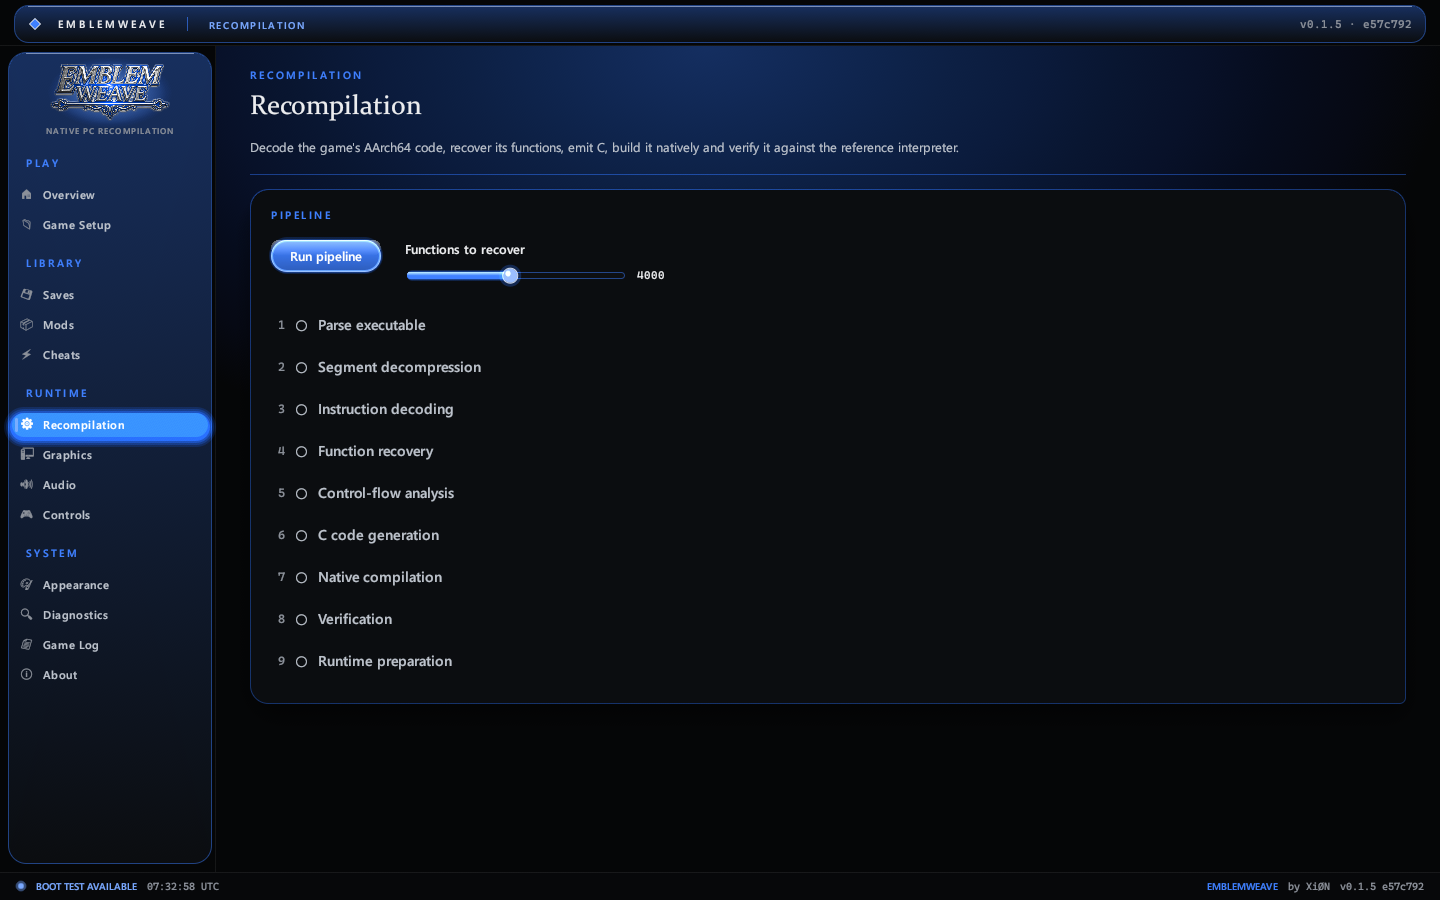
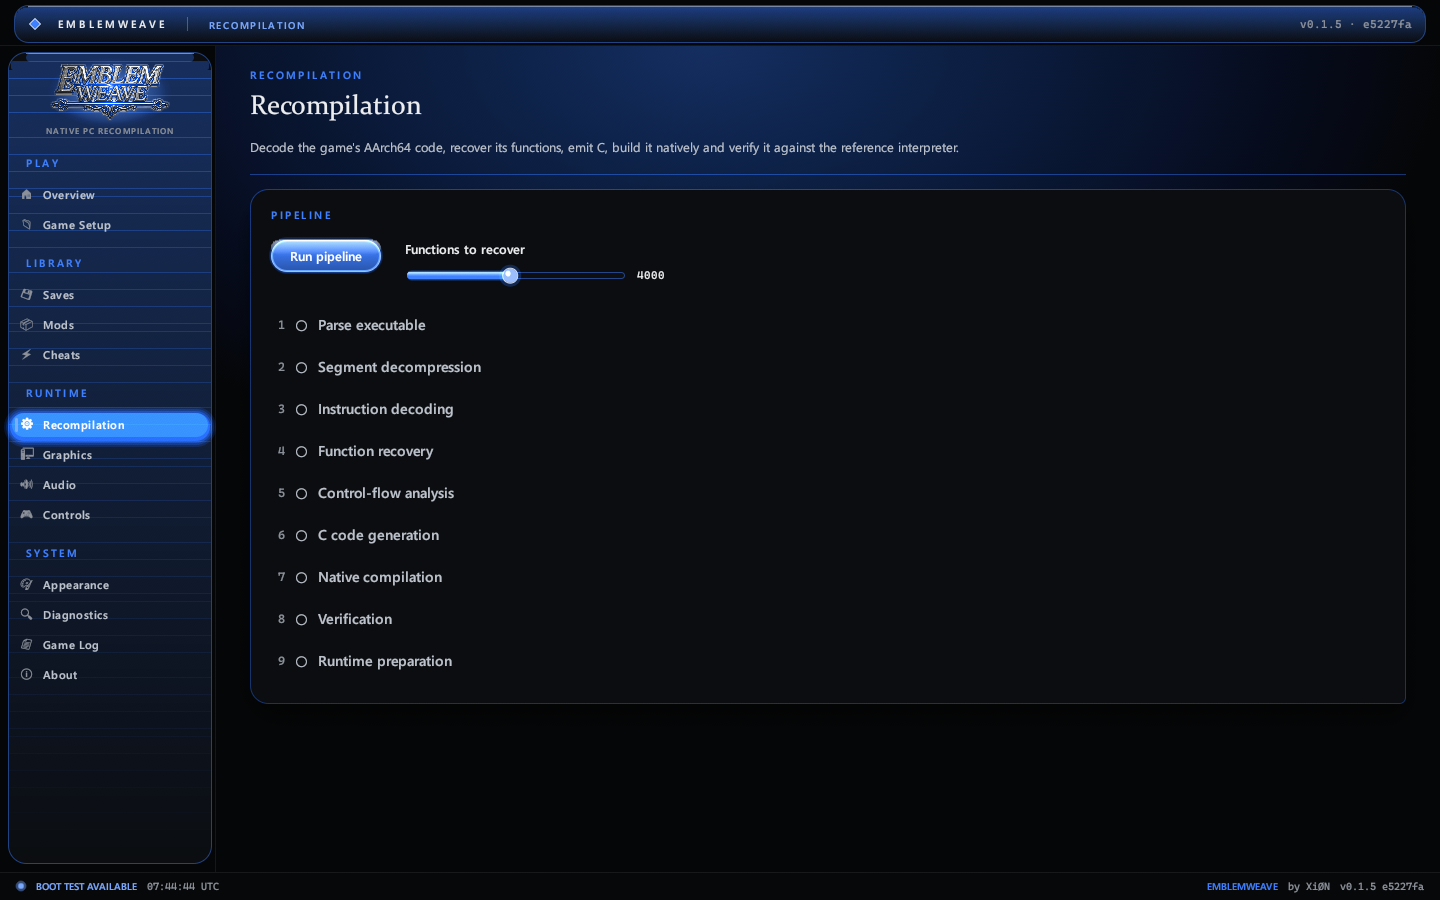
Paint gradients in rows so nothing can spill over the page
A gradient was built as a triangle fan around the rounded outline, and when a
corner radius came close to half a short side the fan threw pale wedges far
outside the control, over the hero, the cards and the text. Gradients are now
painted as one rounded row per line, each inset by the corner's cut at that
height, so they cannot leave their rectangle at any size, radius or pixel
density. The hero's quick actions also fit on one row again at the default
width.

Changed region(s): [[0.0, 0.0, 1.0, 0.0311], [0.1875, 0.2489, 0.25, 0.28], [0.0, 0.0622, 0.0312, 0.0933]]

diff --git a/apps/emblemweave/src/widgets.rs b/apps/emblemweave/src/widgets.rs
@@ -158,43 +158,44 @@ pub fn status_line(ui: &mut egui::Ui, p: &Palette, tone: Tone, label: &str, deta
 }
 
 /// The outline of a rounded rectangle, clockwise from the top left.
-fn rounded_outline(rect: Rect, radius: f32) -> Vec<Pos2> {
-    let r = radius.min(rect.width() / 2.0).min(rect.height() / 2.0);
-    let corners = [
-        (Pos2::new(rect.left() + r, rect.top() + r), std::f32::consts::PI),
-        (Pos2::new(rect.right() - r, rect.top() + r), 1.5 * std::f32::consts::PI),
-        (Pos2::new(rect.right() - r, rect.bottom() - r), 0.0),
-        (Pos2::new(rect.left() + r, rect.bottom() - r), 0.5 * std::f32::consts::PI),
-    ];
-    let mut pts = Vec::with_capacity(4 * 9);
-    for (c, start) in corners {
-        for k in 0..=8 {
-            let a = start + k as f32 / 8.0 * std::f32::consts::FRAC_PI_2;
-            pts.push(c + Vec2::new(a.cos(), a.sin()) * r);
-        }
-    }
-    pts
-}
 
 /// Fill a rounded rectangle with a vertical gradient, as one mesh.
 pub fn gradient_fill(painter: &egui::Painter, rect: Rect, radius: f32, top: Color32, bottom: Color32) {
-    painter.add(gradient_shape(rect, radius, top, bottom));
+    painter.extend(gradient_rows(rect, radius, top, bottom));
 }
 
 /// [`gradient_fill`] as a shape, for painting behind content laid out later.
 pub fn gradient_shape(rect: Rect, radius: f32, top: Color32, bottom: Color32) -> egui::Shape {
-    let outline = rounded_outline(rect, radius);
-    let shade = |y: f32| lerp(top, bottom, ((y - rect.top()) / rect.height().max(1.0)).clamp(0.0, 1.0));
-    let mut mesh = egui::Mesh::default();
-    mesh.colored_vertex(rect.center(), shade(rect.center().y));
-    for q in &outline {
-        mesh.colored_vertex(*q, shade(q.y));
+    egui::Shape::Vec(gradient_rows(rect, radius, top, bottom))
+}
+
+/// A vertical gradient inside a rounded rectangle, painted as thin rows rather
+/// than as a mesh. Every row is a rounded rect of its own, inset by the corner's
+/// cut at that height, so a gradient can never paint outside its rectangle —
+/// whatever the size, the radius or the pixel density. A triangle-fan mesh can
+/// spill when a radius is large next to a short side, which is what threw pale
+/// wedges across the page around the buttons.
+fn gradient_rows(rect: Rect, radius: f32, top: Color32, bottom: Color32) -> Vec<egui::Shape> {
+    let (w, h) = (rect.width().max(0.0), rect.height().max(0.0));
+    if w < 0.5 || h < 0.5 {
+        return Vec::new();
     }
-    let n = outline.len() as u32;
-    for i in 0..n {
-        mesh.add_triangle(0, 1 + i, 1 + (i + 1) % n);
+    let r = radius.min(w * 0.5).min(h * 0.5).max(0.0);
+    let rows = (h.ceil() as usize).clamp(1, 96);
+    let step = h / rows as f32;
+    let mut out = Vec::with_capacity(rows);
+    for i in 0..rows {
+        let y0 = rect.top() + i as f32 * step;
+        let y1 = (y0 + step + 0.5).min(rect.bottom());
+        // The horizontal cut the corner takes at this row's nearest edge.
+        let d = (y0 - rect.top()).min((rect.bottom() - y1).max(0.0));
+        let inset = if d < r { r - (r * r - (r - d) * (r - d)).max(0.0).sqrt() } else { 0.0 };
+        let row = Rect::from_min_max(Pos2::new(rect.left() + inset, y0), Pos2::new(rect.right() - inset, y1));
+        let t = (((y0 + y1) * 0.5) - rect.top()) / h;
+        let corners = if inset > 0.5 { CornerRadius::same(inset.round().clamp(0.0, 255.0) as u8) } else { CornerRadius::ZERO };
+        out.push(egui::Shape::rect_filled(row, corners, lerp(top, bottom, t.clamp(0.0, 1.0))));
     }
-    egui::Shape::mesh(mesh)
+    out
 }
 
 /// Every button in the launcher: one height, one type size, one pill radius.

diff --git a/apps/emblemweave/src/pages/overview.rs b/apps/emblemweave/src/pages/overview.rs
@@ -37,7 +37,6 @@ pub fn show(app: &mut App, ui: &mut egui::Ui) {
                 logo::show_lockup(ui, &p, 244.0_f32.min(ui.available_width() * 0.38));
                 ui.add_space(theme::SPACE_L);
                 ui.vertical(|ui| {
-                    ui.set_max_width(ui.available_width());
                     ui.add_space(theme::SPACE_M);
                     let (name, version) = app.game.title.clone().unwrap_or_else(|| (TITLE_NAME.to_string(), String::new()));
                     ui.label(RichText::new(name).font(theme::display(26.0)).color(p.ink));
@@ -215,7 +214,7 @@ fn quick_actions(app: &mut App, ui: &mut egui::Ui, p: &crate::theme::Palette) {
         ui.label(RichText::new("Save").color(p.muted));
         egui::ComboBox::from_id_salt("quick-profile")
             .selected_text(if profiles.is_empty() { "current save" } else { "load a profile…" })
-            .width(170.0)
+            .width(150.0)
             .show_ui(ui, |ui| {
                 if profiles.is_empty() {
                     ui.label("No profiles yet: keep one on the Saves page.");
@@ -226,7 +225,10 @@ fn quick_actions(app: &mut App, ui: &mut egui::Ui, p: &crate::theme::Palette) {
                     }
                 }
             });
-        if widgets::button(ui, p, "Edit saves", true).clicked() {
+        if widgets::button(ui, p, "Saves", true)
+            .on_hover_text("Open the Saves page: profiles, the slots in this save and the editor")
+            .clicked()
+        {
             app.page = crate::pages::Page::Saves;
         }
         if widgets::button(ui, p, &format!("Mods ({mods_on} on)"), true).clicked() {

diff --git a/README.md b/README.md
@@ -29,10 +29,11 @@ an in-game menu, and a recompilation pipeline you can watch run.
 You supply the game from your own legally obtained copy. EmblemWeave contains no
 game code, no assets and no keys, and it only ever reads your files.
 
-> **Current status: playable through the baseline engine.** The published release is **0.1.4**; the tree here is
-> **0.1.5 in development**, and no new release is cut until the runtime work below is ready. Build the game once
+> **Current status: released as 0.1.5, playable through the baseline engine.** Build the game once
 > from your dump, press **Play**, and on an AMD Radeon RX 7900 XT it runs at about 60 fps with sound, including the
-> opening movie and cutscenes. EmblemWeave's own Rust runtime is being completed to take over running the game: it
+> opening movie and cutscenes. 0.1.5 is the launcher's refined shell: one liquid-glass control material in every
+> scheme, a layout that scales from 1440×900 down to 1120×720, and sliders of the launcher's own. EmblemWeave's own
+> Rust runtime is being completed to take over running the game: it
 > now executes the game's code natively, serves NVN on the host GPU through Vulkan, opens a window and presents the
 > swap chain, and carries out the command buffer's buffer and texture clears and copies. It does not yet draw the
 > game's own geometry; see [Development status](#development-status) and [docs/ENGINE.md](docs/ENGINE.md).
@@ -49,6 +50,7 @@ game code, no assets and no keys, and it only ever reads your files.
 
 - [What EmblemWeave does](#what-emblemweave-does)
 - [Features](#features)
+- [What's new in 0.1.5](#whats-new-in-015)
 - [Development status](#development-status)
 - [Screenshots](#screenshots)
 - [Key capabilities](#key-capabilities)
@@ -96,6 +98,28 @@ feature as working before it is.
 | **Mods** | Install RomFS mods from GameBanana (browse the game's list or paste a link), a .zip, .7z or .rar archive, or a folder, and switch each on or off. |
 | **Cheats** | Quick per-unit cheats (infinite HP, quick level-up, max stats), Atmosphere cheat codes, and Cheat Engine tables with live, editable, freezable values. |
 | **Launcher** | A rail of grouped pages, a status column that says where the game, the recompiler and the runtime stand, a live Game Log you can pop out, liquid-glass controls and sliders that take the colour and glow of the scheme, six schemes (XiØN, Arcade, FE, Ember, Verdant, Frost), diagnostics, and a recompilation pipeline you can watch run. |
+
+## What's new in 0.1.5
+
+- **A refined shell.** Every button is now one material: a liquid-glass body in the scheme's
+  accent under a strip of specular light, a white and accent rim and a soft glow underneath,
+  with the same shell at low opacity for secondary actions. Every button is 32 points tall
+  with one type size and one pill radius, so the formerly oversized hero **Play** now matches
+  the buttons beside it.
+- **Sliders of the launcher's own.** A glass track, a glowing accent fill and a glass-bead
+  handle with its own halo, with the value in monospace beside it. They replace the stock
+  sliders on **Graphics**, **Audio**, **Game Setup**, **Recompilation** and **Controls**, and
+  they take the colour and glow of the scheme like everything else.
+- **A layout that scales.** 1440×900 by default, 1120×720 at the smallest. The page column is
+  capped and centred, the status column steps aside below 1240 wide, the rail fits all
+  thirteen pages at the minimum height, and the lists inside pages grow with the window
+  instead of sitting in fixed boxes.
+- **Six schemes, lit the same way.** Frost's primary button carries dark ink on its glacier
+  cyan so it reads at a glance, Arcade's neon grid is quieter and named on **Appearance**, and
+  buttons, sliders, switches and card rims all take each scheme's palette.
+- **Under the hood.** The runtime's command buffer now carries out the texture clears and
+  texture-to-texture copies that write render targets and swap textures, and the baseline
+  engine is built against libvpx 1.16.0 for the title's VP9/VP8 codecs.
 
 ## Development status
 
@@ -238,9 +262,15 @@ python -m pip install zbic
 
 The rail groups the pages: **Play** (Overview, Game Setup), **Library** (Saves, Mods, Cheats), **Runtime**
 (Recompilation, Graphics, Audio, Controls) and **System** (Appearance, Diagnostics, Game Log, About). The strip along
-the top names the page you are on and the launcher's own frame rate; the strip along the bottom carries the current
-job's progress or the readiness line, and the version. On **Overview**, the column on the right shows where the game
-data, the recompiler and the runtime stand, and what the launcher has just done.
+the top carries the wordmark, the page you are on, and the version with the build revision; the strip along the bottom
+carries the current job's progress or the readiness line, and the last thing the launcher did. On **Overview**, the
+column on the right shows where the game data, the recompiler and the runtime stand, and what the launcher has just done.
+
+The launcher opens at 1440×900 and works down to 1120×720. The page column stops at a fixed measure and is centred, so
+a wide window does not stretch the text; below 1240 wide the status column steps aside so the page keeps its width; the
+rail fits all thirteen pages at the smallest height; and the lists inside pages grow and shrink with the window. Every
+button is the same size, and every control — buttons, sliders, switches, cards — is one liquid-glass material that
+takes the chosen scheme's accent, glow and rim.
 
 | Page | Purpose |
 | --- | --- |
@@ -253,7 +283,7 @@ data, the recompiler and the runtime stand, and what the launcher has just done.
 | **Quick cheats** | Per-unit switches for the units found in the game's memory, using the record layout of the community Cheat Engine tables (stats are single bytes, experience is a running total): infinite HP (current HP held at the unit's max HP every tick, including from 0 HP), quick level-up (the level rises one step every quarter second, up to 40) and max stats (max HP and every stat set to 200). The same switches are on the launcher's Cheats page and the in-game menu's Quick tab (F10); search again after a map loads. |
 | **Recompilation** | Run the nine-stage pipeline (parse, decompress, decode, recover, analyse, emit C, compile, verify, prepare) with live progress. |
 | **Graphics, Audio, Controls** | Options for EmblemWeave's own runtime, saved now and marked until its renderer, mixer and input are in place. While playing, the display settings are in the in-game menu and full rebinding is in the game engine's F1 menu. |
-| **Appearance** | Choose between the [XiØN](https://github.com/XiONDiGiTaL) scheme (the xiondigital.net palette), Arcade (a retro video-game palette of hot pink, arcade yellow and cyan on violet, over a neon grid), FE (gold, white silver and royal blue), Ember (ember orange and molten gold over oxblood steel), Verdant (emerald and pale gold over moss-black) and Frost (glacier blue and ice silver over midnight). The logo artwork is recoloured to match each scheme. |
+| **Appearance** | Choose between the [XiØN](https://github.com/XiONDiGiTaL) scheme (the xiondigital.net palette), Arcade (a retro video-game palette of hot pink, arcade yellow and cyan on violet, over a neon grid), FE (gold, white silver and royal blue), Ember (ember orange and molten gold over oxblood steel), Verdant (emerald and pale gold over moss-black) and Frost (glacier blue and ice silver over midnight). The logo artwork is recoloured to match each scheme, and every control takes its accent, its glow and its rim from it. |
 | **Diagnostics** | Stop reason, guest threads, host events, imports reached and the final events before a stop, with search and export. |
 | **Game Log** | The game engine's log, followed live while the game runs: info, warnings and errors (each counted and filterable), search, copy, this run or the previous one, and **Pop out** to keep it in a window of its own. |
 | **About** | Version, build revision, what each runtime is, credits and legal information. |
